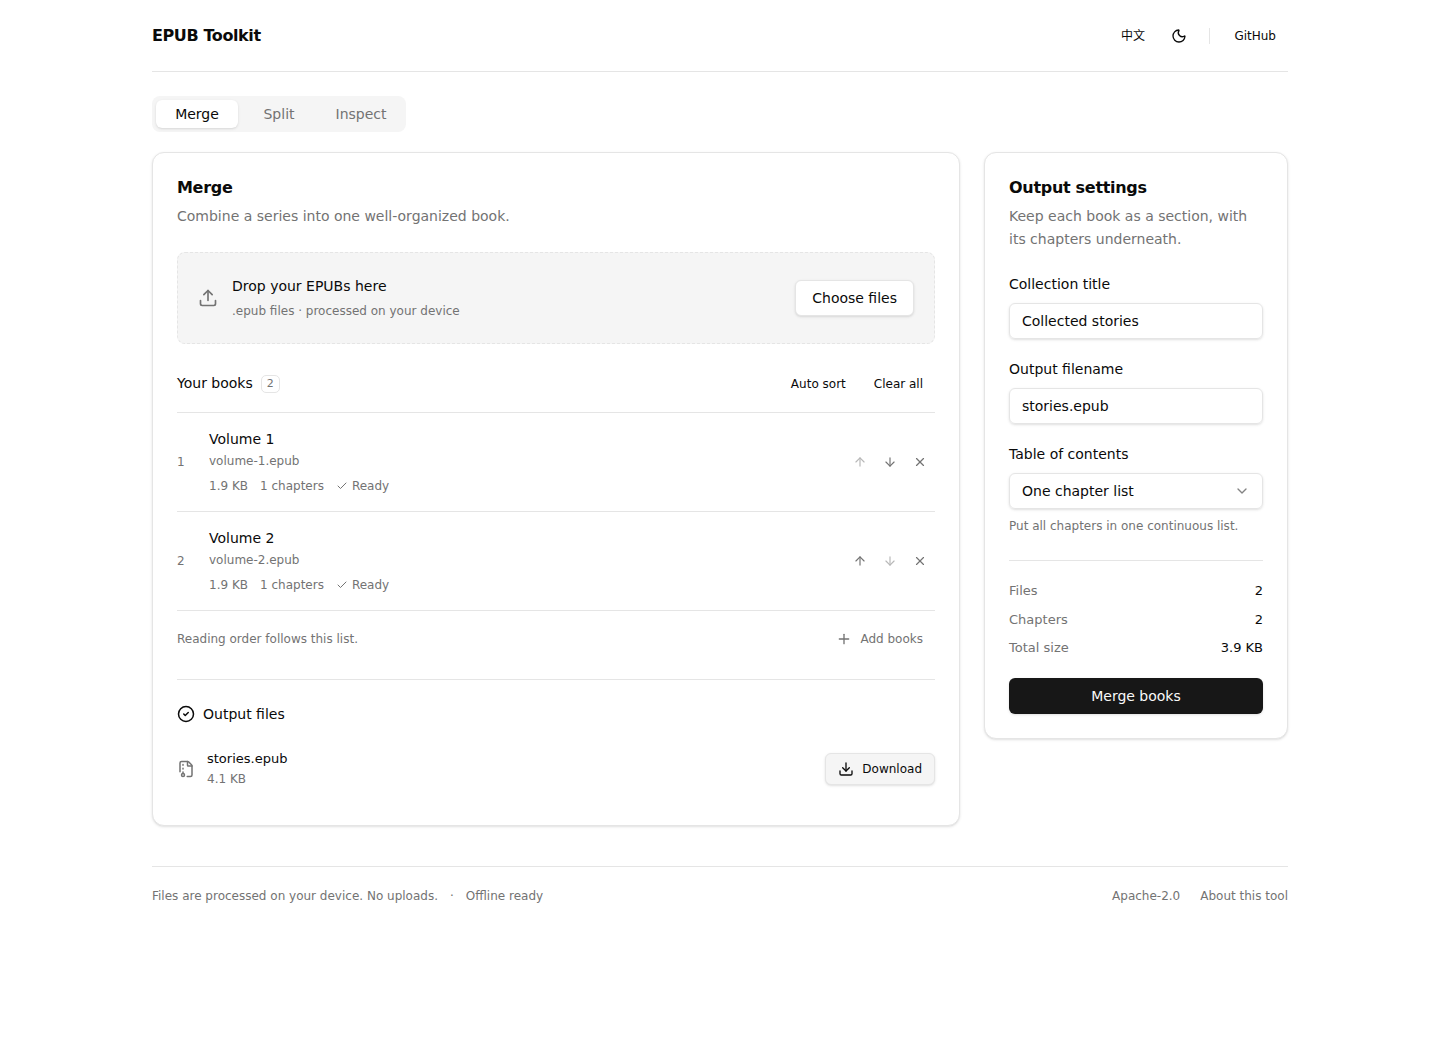
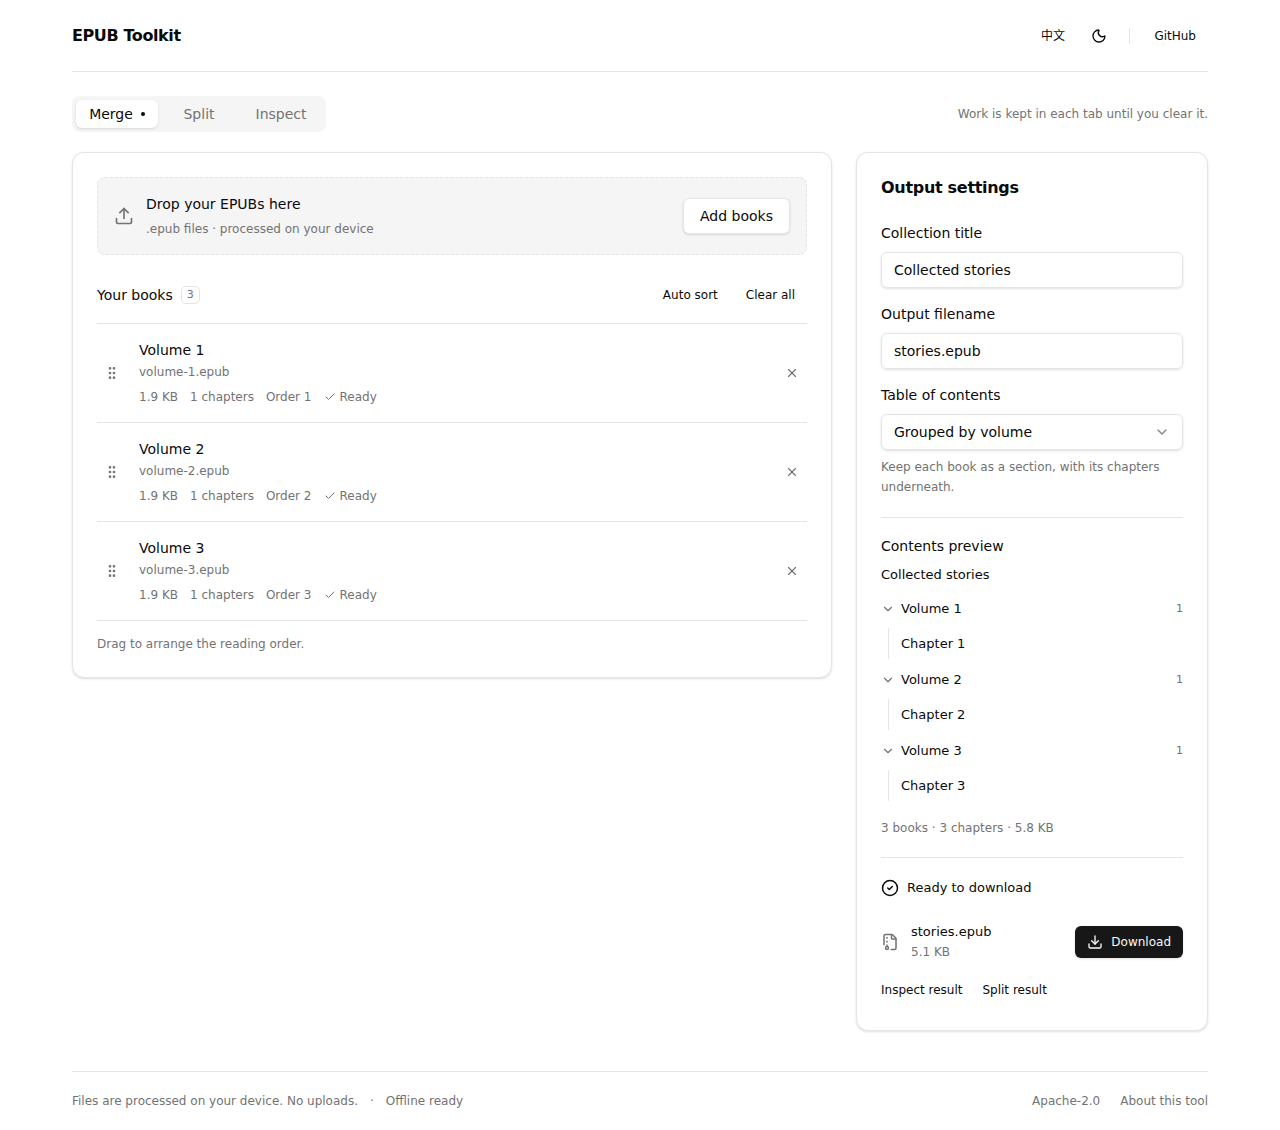
release: prepare EPUB Toolkit 1.2 documentation and workflow demo

diff --git a/tests/e2e/demo.spec.ts b/tests/e2e/demo.spec.ts
@@ -1,0 +1,69 @@
+import { expect, test } from "@playwright/test";
+import { fixture } from "../fixtures.js";
+
+// Opt-in recording of the production app. Viewing pauses only affect this demo.
+test.use({
+  viewport: { width: 1280, height: 1000 },
+  video: { mode: "on", size: { width: 1280, height: 1000 } },
+});
+test("record the file-to-download workflow", async ({ page }, testInfo) => {
+  test.skip(
+    !process.env.RECORD_DEMO,
+    "Set RECORD_DEMO=1 to refresh the README recording.",
+  );
+  await page.goto("./");
+  await page.waitForTimeout(700);
+  await page
+    .getByLabel("Choose files", { exact: true })
+    .setInputFiles(
+      [2, 1, 3].map((volume) => ({
+        name: `volume-${volume}.epub`,
+        mimeType: "application/epub+zip",
+        buffer: Buffer.from(fixture(volume, 3, true)),
+      })),
+    );
+  await expect(page.getByRole("button", { name: "Merge books" })).toBeEnabled();
+  await page.getByLabel("Collection title").fill("Collected stories");
+  await page.getByLabel("Output filename").fill("stories.epub");
+  await page.waitForTimeout(700);
+  const handle = (await page.locator(".drag-handle").first().boundingBox())!,
+    target = (await page.locator(".book-row").nth(1).boundingBox())!;
+  await page.mouse.move(
+    handle.x + handle.width / 2,
+    handle.y + handle.height / 2,
+  );
+  await page.mouse.down();
+  await page.mouse.move(
+    handle.x + handle.width / 2,
+    handle.y + handle.height / 2 + 10,
+    { steps: 5 },
+  );
+  await expect(page.locator("[data-dnd-dragging]")).toHaveCount(1);
+  await page.mouse.move(
+    handle.x + handle.width / 2,
+    target.y + target.height / 2,
+    { steps: 25 },
+  );
+  await page.mouse.up();
+  await expect(page.locator(".book-list .book-row h3")).toHaveText([
+    "Volume 1",
+    "Volume 2",
+    "Volume 3",
+  ]);
+  await page.waitForTimeout(600);
+  await page
+    .getByRole("region", { name: "Contents preview" })
+    .screenshot({ path: testInfo.outputPath("preview.png") });
+  await page.getByRole("button", { name: "Merge books" }).click();
+  await expect(
+    page.getByRole("button", { name: "Download", exact: true }),
+  ).toBeVisible();
+  await expect(page.locator("[data-sonner-toast]")).toHaveCount(0, {
+    timeout: 6000,
+  });
+  await page.screenshot({ path: "docs/workspace.png", fullPage: true });
+  const download = page.waitForEvent("download");
+  await page.getByRole("button", { name: "Download", exact: true }).click();
+  expect((await download).suggestedFilename()).toBe("stories.epub");
+  await page.waitForTimeout(1000);
+});

diff --git a/README.md b/README.md
@@ -8,7 +8,9 @@ Local processing · No file uploads · Offline availability · Python and Node C
 
 合并 EPUB 分卷、恢复单册、查看书籍结构。支持中英文、明暗主题和离线使用。
 
-![EPUB Toolkit: book queue, collection settings, and download](docs/workspace.png)
+![EPUB Toolkit: draggable book queue, contents preview, and download](docs/workspace.png)
+
+[Watch the file-to-download workflow](docs/workflow.gif)
 
 ## What it does
 
@@ -18,7 +20,11 @@ Local processing · No file uploads · Offline availability · Python and Node C
 | **Split** | Reconstruct the volumes of an EPUB merged with this tool. Download each book or take all of them in one ZIP. |
 | **Inspect** | Read the title, author, language, package version, reading order, and navigation of an ordinary or merged EPUB. |
 
-The workspace supports drag and drop, automatic volume sorting, manual reordering, cancellation, English and Chinese, and light and dark themes. It also works on a phone. File reordering, menus, task states, and output panels use short animations and respect reduced-motion preferences.
+Drag books into reading order with a mouse, touch, or the keyboard; automatic sorting and arrow controls remain available. The contents preview follows your chosen order and grouped/flat setting. Each tab keeps its own files and results until you clear it.
+
+After merging, download the EPUB or open it directly in Inspect or Split. There is no need to download and upload it again. Split shows the recoverable volumes before processing; Inspect puts metadata and navigation first, with detailed paths behind expandable sections.
+
+The workspace supports cancellation, English and Chinese, light and dark themes, and phone and tablet layouts. Short transitions and layout animations respect reduced-motion preferences. Edits invalidate old downloads; switching tabs does not.
 
 EPUB 2 NCX and EPUB 3 navigation are supported. Resource handling covers XHTML, CSS, images, SVG references, and plain fonts, including nested relative paths. Matching binary images and fonts are stored once in a merged book.
 
@@ -26,7 +32,7 @@ EPUB 2 NCX and EPUB 3 navigation are supported. Resource handling covers XHTML, 
 
 ## Privacy and offline use
 
-Book files stay in browser memory and are processed in a Web Worker. There is no upload endpoint, account, analytics, or server-side storage. Language and theme preferences are saved on the device.
+Book files and saved tab contents stay in browser memory and are processed in a Web Worker. Clear a tab or close the page to release its work. Reloading the page does not restore selected books. There is no upload endpoint, account, analytics, or server-side storage. Language and theme preferences are saved on the device.
 
 After the app reports that it is ready for offline use, it can be reopened without a connection. The app shell and processing code are cached; your books are not. Supported browsers offer **Install app**. Safari users can use the browser's Add to Dock or Add to Home Screen command. Updates appear as an explicit prompt.
 
@@ -54,15 +60,15 @@ To deploy a reviewed version, select **Actions → Deploy Web UI to GitHub Pages
 
 ## Release artifacts
 
-Version 1.1.0 is prepared in this checkout. The online link serves the latest deployed build.
+Version 1.2.0 is prepared in this checkout. The online link serves the latest deployed build.
 
 ```sh
-npm run package:node        # dist/epub-toolkit-node-1.1.0.tgz
+npm run package:node        # dist/epub-toolkit-node-1.2.0.tgz
 python -m pip install build
 python -m build            # dist/*.whl and dist/*.tar.gz
 ```
 
-Python users can install the downloaded wheel with `python -m pip install ./lightweight_epub_merge_tool-1.1.0-py3-none-any.whl`. The CLI binaries are `epub-merge` (Python) and `epub-toolkit` (Node). Neither CLI needs a web server. The static web artifact is built for `/lightweight_epub_merge_tool/`; serve it at that path to preserve Worker/PWA URLs.
+Python users can install the downloaded wheel with `python -m pip install ./lightweight_epub_merge_tool-1.2.0-py3-none-any.whl`. The CLI binaries are `epub-merge` (Python) and `epub-toolkit` (Node). Neither CLI needs a web server. The static web artifact is built for `/lightweight_epub_merge_tool/`; serve it at that path to preserve Worker/PWA URLs.
 
 ## Python CLI
 
@@ -103,7 +109,7 @@ node dist-ts/src/cli.js split collection.epub --out-dir recovered
 node dist-ts/src/cli.js inspect collection.epub
 ```
 
-Install the prepared Node package with `npm install -g ./epub-toolkit-node-1.1.0.tgz`, then run `epub-toolkit merge`, `epub-toolkit split`, or `epub-toolkit inspect` with the same arguments shown above. To prepare it locally, run `npm run package:node`.
+Install the prepared Node package with `npm install -g ./epub-toolkit-node-1.2.0.tgz`, then run `epub-toolkit merge`, `epub-toolkit split`, or `epub-toolkit inspect` with the same arguments shown above. To prepare it locally, run `npm run package:node`.
 
 The core exports `mergeEpubs`, `splitEpub`, `inspectEpub`, `readSourceBook`, and `readBookSummary`. `mergeEpubFiles(name, [{name, file: Blob}], mergeOptions, {onProgress, signal})` and `splitEpubFile(blob, {onProgress, signal})` provide asynchronous Blob inputs/outputs and optional progress/cancellation controls. Both paths share the same resource rules. The existing synchronous APIs use `Uint8Array` and remain available in Node and the browser. The Python implementation retains its standard-library-only installation, and interoperability tests cover merge/split in both directions.
 
@@ -125,7 +131,9 @@ CI runs this validation for EPUB 2/3 merge and split outputs, plus Python intero
 
 The manual **Build release packages** workflow produces a Python wheel, source archive, installable Node tarball, and static web build as downloadable artifacts. It installs both CLIs in clean environments and runs merge, split and inspect. Packaging does not publish a release or deploy a site.
 
-See [architecture and design decisions](docs/architecture.md) for resource mapping, memory use, and task cancellation.
+To refresh the real workflow recording, install Playwright’s Chromium and FFmpeg with `npx playwright install chromium ffmpeg`, then run `RECORD_DEMO=1 npx playwright test demo.spec.ts` after building the Pages app. The generated WebM is saved in the test output directory. The README GIF is an extract of that recording.
+
+See [architecture and design decisions](docs/architecture.md) for resource mapping, workspace state, memory use, and task cancellation.
 
 <details>
 <summary>Mobile workspace in dark mode</summary>

diff --git a/docs/architecture.md b/docs/architecture.md
@@ -8,6 +8,18 @@ The Worker has one active request. Metadata analysis runs sequentially through t
 
 The Worker returns immutable `Blob` results. Structured cloning a Blob shares its backing storage, avoiding a complete output ArrayBuffer transfer and a second Blob construction on the main thread. Download URLs are revoked when results change or the workspace closes. Editing an output setting invalidates the old result.
 
+## Workspace state and interaction
+
+React holds three small session records for Merge, Split and Inspect. Each record owns its selected Files, parsed summaries, results and error. Switching tabs changes only the selected mode. Settings belong to Merge; editing inputs clears that session’s old output immediately and shows a request to process again. Clear only removes the current session. A page reload clears all book state.
+
+There is still one Worker and one active task. A task carries its originating mode, so switching tabs cannot send a completion into another workspace. Other tabs can be reviewed during a task; competing processing or input changes wait until completion or cancellation. A visible task banner provides cancellation and a link back to the originating mode.
+
+Analysis returns the existing Inspect report, including parsed navigation and manifest paths. The Merge preview uses that navigation, adding a volume level or flattening linked entries by the same rules as the navigation writer. It never reparses EPUB documents on the main thread. Inspect reuses the parsed report. Split uses the existing merge record’s source list to preview recoverable books before reconstruction. Navigation branches and path lists mount on demand in batches of 24, rather than creating thousands of hidden DOM nodes.
+
+The dnd-kit React sortable integration provides pointer, touch and keyboard sensors, optimistic list placement, focus restoration and localized announcements. Drop commits its initial/final indexes directly to the same order used by preview and merge. Escape keeps the original order and result. Arrow controls and automatic sorting update the same array. Motion animates those idle layout changes with a spring; dnd-kit owns transforms during dragging. Short motion tokens live in `web/src/lib/motion.ts`, and reduced motion disables spatial animation and drop transitions. Results become usable as soon as the Worker resolves.
+
+Result actions create a File backed by the output Blob for Inspect or Split, without a ZIP serialization or download/upload round trip. Sessions retain only the inputs/results they still expose. A URL set comparison revokes removed downloads without touching saved results in another tab. Packing-download URLs are short-lived and also cleaned up on unmount. Keeping a Blob as another tab’s source intentionally keeps its bytes available even after the original result URL is revoked.
+
 ## Analysis and execution
 
 The processing path is:

diff --git a/THIRD_PARTY_NOTICES.md b/THIRD_PARTY_NOTICES.md
@@ -22,3 +22,28 @@ AUTHORS OR COPYRIGHT HOLDERS BE LIABLE FOR ANY CLAIM, DAMAGES OR OTHER
 LIABILITY, WHETHER IN AN ACTION OF CONTRACT, TORT OR OTHERWISE, ARISING FROM,
 OUT OF OR IN CONNECTION WITH THE SOFTWARE OR THE USE OR OTHER DEALINGS IN THE
 SOFTWARE.
+
+
+dnd-kit packages used in the Web UI (https://github.com/clauderic/dnd-kit):
+
+MIT License
+
+Copyright (c) 2021, Claudéric Demers
+
+Permission is hereby granted, free of charge, to any person obtaining a copy
+of this software and associated documentation files (the "Software"), to deal
+in the Software without restriction, including without limitation the rights
+to use, copy, modify, merge, publish, distribute, sublicense, and/or sell
+copies of the Software, and to permit persons to whom the Software is
+furnished to do so, subject to the following conditions:
+
+The above copyright notice and this permission notice shall be included in all
+copies or substantial portions of the Software.
+
+THE SOFTWARE IS PROVIDED "AS IS", WITHOUT WARRANTY OF ANY KIND, EXPRESS OR
+IMPLIED, INCLUDING BUT NOT LIMITED TO THE WARRANTIES OF MERCHANTABILITY,
+FITNESS FOR A PARTICULAR PURPOSE AND NONINFRINGEMENT. IN NO EVENT SHALL THE
+AUTHORS OR COPYRIGHT HOLDERS BE LIABLE FOR ANY CLAIM, DAMAGES OR OTHER
+LIABILITY, WHETHER IN AN ACTION OF CONTRACT, TORT OR OTHERWISE, ARISING FROM,
+OUT OF OR IN CONNECTION WITH THE SOFTWARE OR THE USE OR OTHER DEALINGS IN THE
+SOFTWARE.

diff --git a/CHANGELOG.md b/CHANGELOG.md
@@ -1,5 +1,16 @@
 # Changelog
 
+## 1.2.0 — prepared for release
+
+- Keep each tool’s files, settings and results when switching tabs. Clearing a workspace releases its download URLs; books are still kept only in memory.
+- Arrange Merge inputs with mouse, touch or keyboard dragging, or with automatic sorting and arrow controls. Preview the actual grouped or flat navigation before merging.
+- Use merged results directly in Inspect or Split. Split previews recoverable source books and keeps individual and ZIP downloads.
+- Give Inspect a document-oriented view, with expandable navigation and on-demand resource paths. Long lists load in small batches.
+- Keep processing feedback in the action area, allow cancellation from another tab, and replace obsolete downloads when inputs change.
+- Unify short content transitions, spring layout changes and drag feedback, including reduced-motion support. Refresh responsive screenshots and a recording of the real workflow.
+
+The v1.1 EPUB engine, ZIP implementation, CLI commands and manual Pages deployment remain in place.
+
 ## 1.1.0 — prepared for release
 
 - Process Blob inputs sequentially and write ZIP members as they become available. Web downloads now return Blobs directly from the Worker.
